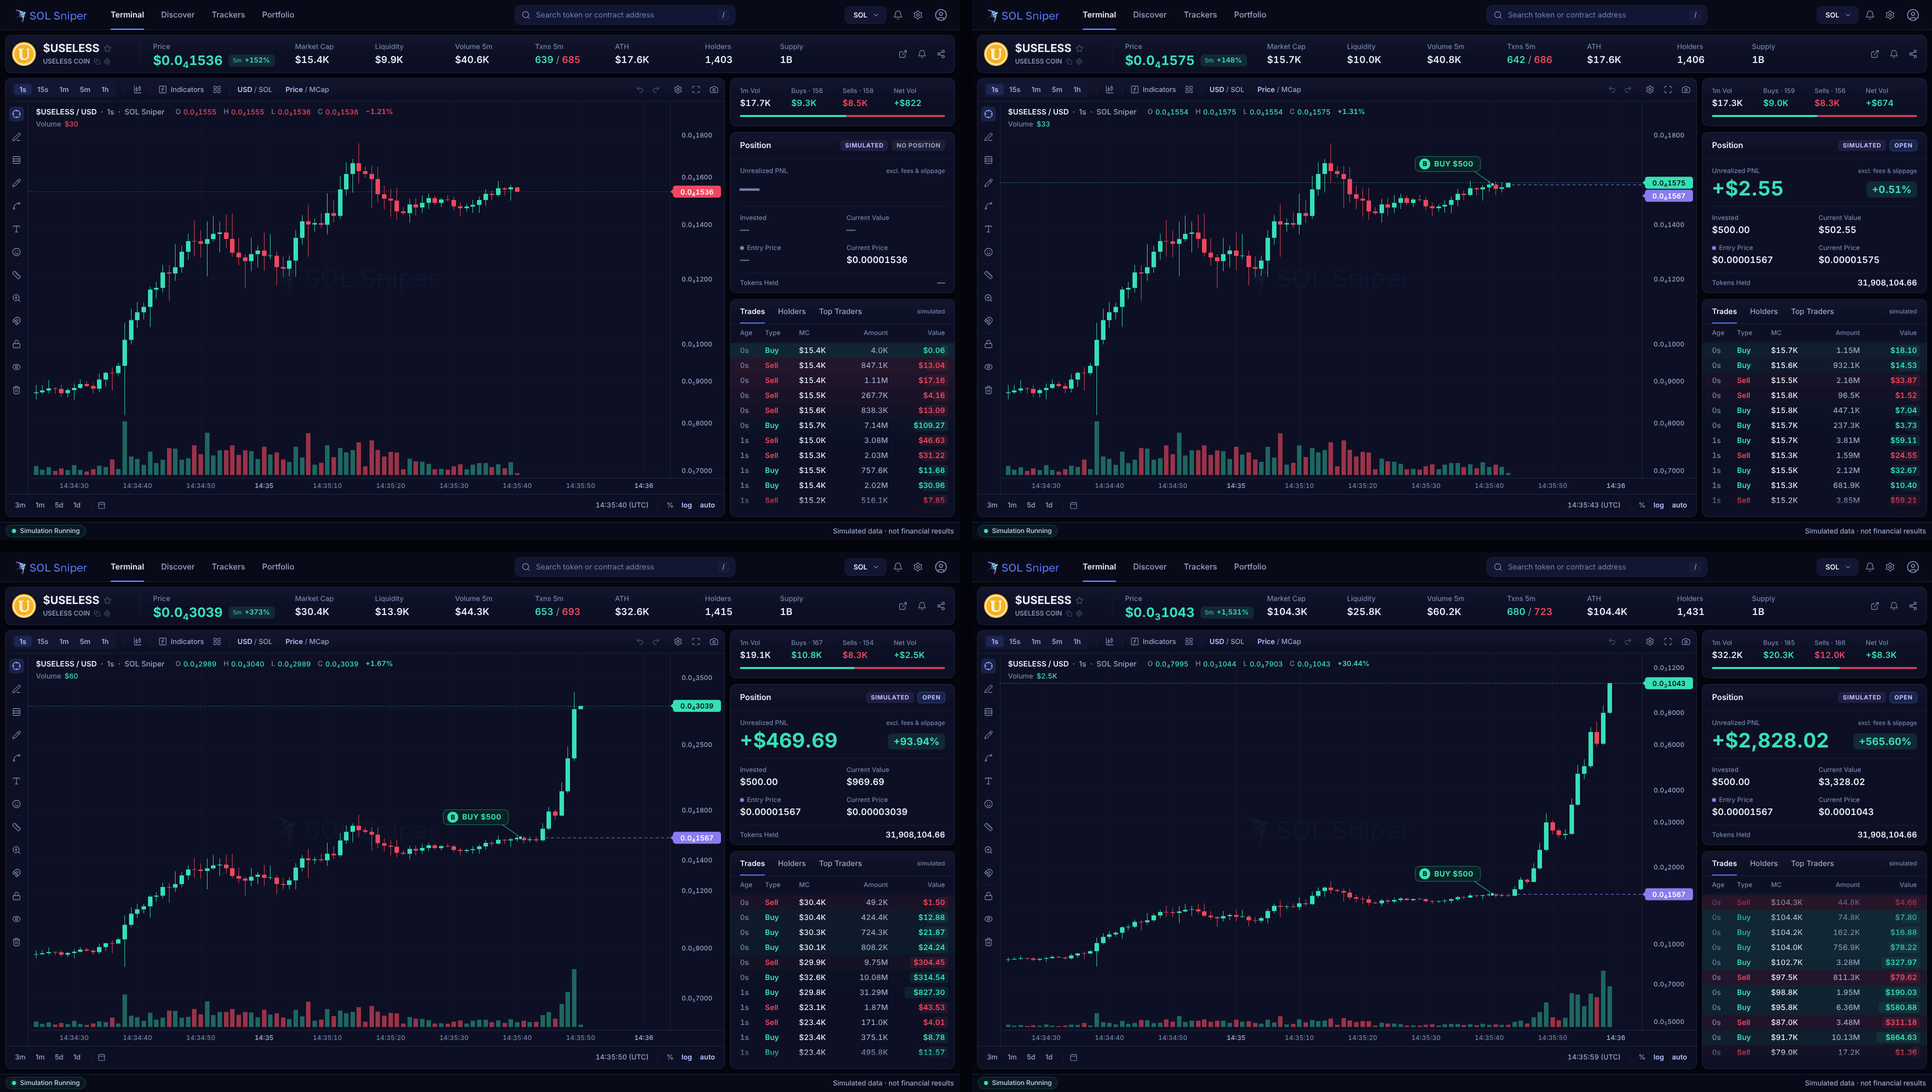
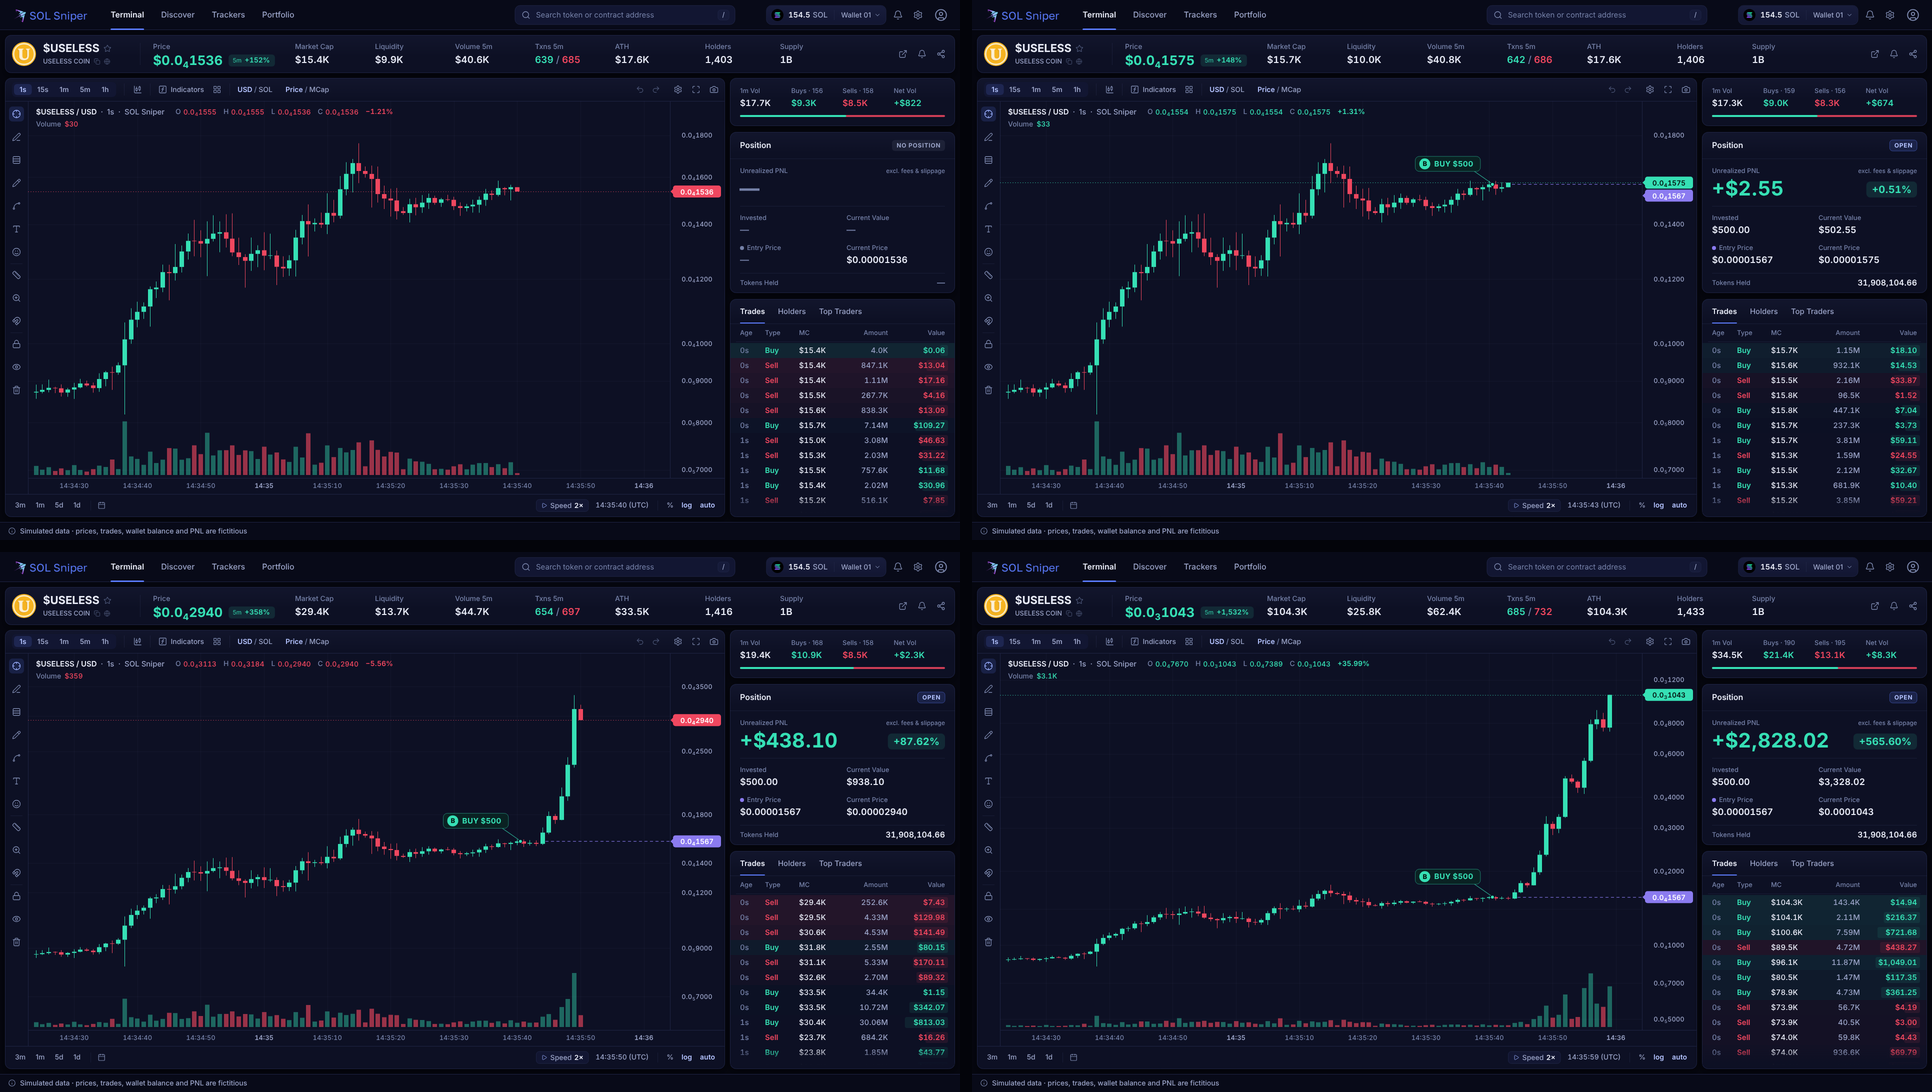
Pro mockup: end on the reviewed final values, smoother scale, varied run
- the last trade (t = 9.9 s) is $0.0001043, so the last frame shows the
  price, PNL (+$2,828.02) and ROI (+565.60%) of the capture the client
  reviewed; it stays on screen for the last 6 frames
- final run: impulses of different sizes and shapes at an irregular rhythm,
  single and two-candle pullbacks, indecision and rejection candles
- price and volume scales look 0.4 s ahead and ease, so the chart no longer
  jumps up to 38 px in one frame (now at most 6.6 px)
- speed chip reads 'Speed 2x' (not 'Replay', which suggests recorded data)
- restore the approved tape fade-in; update the tracked captures

Claude-Session: https://claude.ai/code/session_01DX4UdPmxe4ofh249epe6BY

diff --git a/sol-sniper-chart/src/pro/market.js b/sol-sniper-chart/src/pro/market.js
@@ -13,14 +13,14 @@
 import { DURATION, SAMPLE_HZ, gauss, makePath, mulberry32 } from '../engine.js';
 
 export const CANDLE_S = 0.5; // video seconds per 1 s candle (2x speed)
-export const REPLAY_SPEED = 1 / CANDLE_S; // chart seconds per video second (shown as "Replay 2x")
+export const PLAYBACK_SPEED = 1 / CANDLE_S; // chart seconds per video second (shown as "Speed 2x")
 export const HIST = 300; // 1 s candles before t = 0 (5 min, feeds the 5m stats)
 export const VIS_HIST = 76; // of which drawn on the chart
 export const LIVE = Math.round(DURATION / CANDLE_S); // 20 candles form during the video
 export const SLOTS = 100; // fixed x slots: 76 history + 20 live + right margin
 export const SUPPLY = 1e9; // USELESS total supply
 const ENTRY_PRICE = 0.00001567; // last trade when the simulated position opens (t = 0.5 s)
-const FINAL_PRICE = 0.0001025; // last trade of the video (closes the last candle at t = 9.98 s)
+const FINAL_PRICE = 0.0001043; // last trade of the video (closes the last candle at t = 9.9 s)
 const RISE_FROM = 8; // first candle of the final run (t = 4 s)
 const POOL_USD_AT_ENTRY = 5000; // USD side of the pool at the entry price
 export const CLOCK0 = 14 * 3600 + 30 * 60 + 40; // chart clock of history candle 0 (14:30:40)
@@ -36,9 +36,10 @@ const HIST_SEGMENTS = [
   { n: 18, ret: 0.07, vol: 0.012, wick: 1.0, rate: 1.6 }, // base, higher lows
 ];
 
-// Live candles: ret = close/open - 1, uw/lw = wick extensions, rate = trades
-// per video second. Dojis, two-candle pullbacks and rejection wicks keep the
-// pump from looking mechanical.
+// Live candles: ret = scripted close/open - 1 (up-moves of the final run are
+// rescaled, see below), uw/lw = wick extensions, rate = trades per video
+// second. Pullbacks, indecision candles and rejection wicks keep the pump
+// from looking mechanical.
 const LIVE_SCRIPT = [
   // 0 - 2 s: calm; the position opens on the close of the first candle
   { ret: +0.008, uw: 0.012, lw: 0.014, rate: 6 },
@@ -50,21 +51,22 @@ const LIVE_SCRIPT = [
   { ret: +0.09, uw: 0.025, lw: 0.008, rate: 8 },
   { ret: -0.02, uw: 0.01, lw: 0.02, rate: 7 },
   { ret: +0.13, uw: 0.05, lw: 0.006, rate: 9 },
-  // 4 - 10 s: final run. Impulses of different sizes, short pullbacks, one
-  // indecision candle and one rejection; wicks vary (dips bought, profit
-  // taking). Up-moves are rescaled below so the run ends on FINAL_PRICE.
-  { ret: +0.17, uw: 0.05, lw: 0.012, rate: 10 }, // breakout, upper wick
-  { ret: +0.31, uw: 0.03, lw: 0.02, rate: 12 }, // impulse
-  { ret: -0.06, uw: 0.015, lw: 0.07, rate: 12 }, // pullback, dip bought (long lower wick)
-  { ret: +0.13, uw: 0.085, lw: 0.01, rate: 11 }, // up, profit taking (long upper wick)
-  { ret: -0.035, uw: 0.03, lw: 0.025, rate: 9 }, // small pause
-  { ret: +0.36, uw: 0.035, lw: 0.02, rate: 13 }, // impulse
-  { ret: +0.21, uw: 0.1, lw: 0.015, rate: 14 }, // up, long upper wick
-  { ret: -0.09, uw: 0.02, lw: 0.055, rate: 13 }, // correction
-  { ret: +0.05, uw: 0.07, lw: 0.05, rate: 11 }, // spinning top
-  { ret: +0.38, uw: 0.03, lw: 0.02, rate: 14 }, // impulse
-  { ret: -0.07, uw: 0.12, lw: 0.035, rate: 14 }, // rejection (long upper wick)
-  { ret: +0.33, uw: 0.04, lw: 0.03, rate: 14 }, // final push, closes at t = 9.98 s
+  // 4 - 10 s: final run. Impulses of different sizes and shapes at an
+  // irregular rhythm, single and two-candle pullbacks, an indecision candle
+  // and a rejection; wicks vary (dips bought, profit taking). Up-moves are
+  // rescaled below so the run ends on FINAL_PRICE.
+  { ret: +0.15, uw: 0.04, lw: 0.02, rate: 11 }, // breakout
+  { ret: +0.28, uw: 0.075, lw: 0.015, rate: 15 }, // impulse, profit taking at the top
+  { ret: -0.045, uw: 0.02, lw: 0.065, rate: 12 }, // pullback, dip bought
+  { ret: +0.1, uw: 0.03, lw: 0.045, rate: 11 }, // recovery
+  { ret: +0.36, uw: 0.025, lw: 0.02, rate: 16 }, // impulse
+  { ret: -0.03, uw: 0.04, lw: 0.02, rate: 10 }, // pause
+  { ret: -0.055, uw: 0.015, lw: 0.05, rate: 12 }, // second red candle
+  { ret: +0.24, uw: 0.03, lw: 0.06, rate: 14 }, // bounce from a dip
+  { ret: +0.34, uw: 0.05, lw: 0.015, rate: 16 }, // impulse
+  { ret: +0.04, uw: 0.09, lw: 0.04, rate: 12 }, // indecision, long upper wick
+  { ret: -0.075, uw: 0.06, lw: 0.045, rate: 13 }, // rejection
+  { ret: +0.3, uw: 0.02, lw: 0.035, rate: 22 }, // final push, closes at t = 9.9 s
 ];
 
 const fmtClock = (sec) => {
@@ -180,8 +182,9 @@ export function buildProMarket({ seed = 7, histSeed = 3, tradeSeed = 11 } = {}) 
     }
     const n = Math.max(1, Math.round(s.rate * CANDLE_S * (0.8 + 0.4 * trng())));
     // extremes before the close, so the close is the candle's last trade; the
-    // last candle closes at 0.955 (t = 9.98 s), before the video's last frame
-    const cf = lastCandle ? 0.955 : 0.98;
+    // last candle closes at 0.8 (t = 9.9 s), so the final price holds on screen
+    // for the video's last 6 frames
+    const cf = lastCandle ? 0.8 : 0.98;
     const fr = tradeFractions(trng, n, [Math.min(cf - 0.02, iMax / N), Math.min(cf - 0.02, iMin / N), cf], cf);
     const t0 = j * CANDLE_S;
     const churn = Math.min(0.55, Math.abs(s.ret) * 2.2); // profit-taking grows with the move
@@ -228,38 +231,49 @@ export function buildProMarket({ seed = 7, histSeed = 3, tradeSeed = 11 } = {}) 
     return out;
   }
 
-  // ---- log-scale auto range over the visible candles, eased, precomputed
+  // ---- log-scale auto range over the visible candles, precomputed. The
+  // targets look LOOK_S ahead and are eased, so the scale opens up smoothly
+  // before a spike instead of jumping when it prints (no zoom-like jolt).
   const steps = Math.ceil(DURATION * SAMPLE_HZ) + 1;
+  const dt = 1 / SAMPLE_HZ;
+  const LOOK = Math.round(0.4 * SAMPLE_HZ);
+  const lh = new Float64Array(steps);
+  const ll = new Float64Array(steps);
+  const vm = new Float64Array(steps);
+  for (let j = 0; j < steps; j++) {
+    let hi = -Infinity;
+    let lo = Infinity;
+    for (const x of candlesAt(j * dt)) {
+      hi = Math.max(hi, x.h);
+      lo = Math.min(lo, x.l);
+      vm[j] = Math.max(vm[j], x.usd);
+    }
+    lh[j] = Math.log(hi);
+    ll[j] = Math.log(lo);
+  }
+  const ahead = (arr, j, f) => {
+    let v = -Infinity;
+    for (let k = j; k <= Math.min(steps - 1, j + LOOK); k++) v = Math.max(v, f(arr[k], k));
+    return v;
+  };
   const yTop = new Float64Array(steps);
   const yBot = new Float64Array(steps);
   const vTop = new Float64Array(steps);
-  const dt = 1 / SAMPLE_HZ;
   let sTop = 0;
   let sVol = 0;
   for (let j = 0; j < steps; j++) {
-    const cs = candlesAt(j * dt);
-    let hi = -Infinity;
-    let lo = Infinity;
-    let vmax = 0;
-    for (const x of cs) {
-      hi = Math.max(hi, x.h);
-      lo = Math.min(lo, x.l);
-      vmax = Math.max(vmax, x.usd);
-    }
-    const lh = Math.log(hi);
-    const ll = Math.log(lo);
-    const range = lh - ll;
-    const target = lh + 0.06 * range;
+    const target = ahead(lh, j, (h, k) => h + 0.06 * (h - ll[k]));
+    const vTarget = ahead(vm, j, (v) => v * 1.1);
     if (j === 0) {
       sTop = target;
-      sVol = vmax * 1.1;
+      sVol = vTarget;
     } else {
-      sTop += (target - sTop) * (1 - Math.exp(-dt / 0.18));
-      sVol += (vmax * 1.1 - sVol) * (1 - Math.exp(-dt / 0.25));
+      sTop += (target - sTop) * (1 - Math.exp(-dt / 0.15));
+      sVol += (vTarget - sVol) * (1 - Math.exp(-dt / 0.2));
     }
-    yTop[j] = Math.max(sTop, lh + 0.01 * range);
-    yBot[j] = ll - 0.04 * range;
-    vTop[j] = Math.max(sVol, vmax * 1.02);
+    yTop[j] = Math.max(sTop, lh[j] + 0.01 * (lh[j] - ll[j]));
+    yBot[j] = ll[j] - 0.04 * (yTop[j] - ll[j]);
+    vTop[j] = Math.max(sVol, vm[j] * 1.02);
   }
 
   const P0 = candles[HIST - VIS_HIST].o;

diff --git a/sol-sniper-chart/src/pro/render.js b/sol-sniper-chart/src/pro/render.js
@@ -3,7 +3,7 @@
 
 import { centsToString, formatPctBp, formatUsdCents, priceDecimals } from '../format.js';
 import { roundRect } from '../ui.js';
-import { REPLAY_SPEED, SLOTS } from './market.js';
+import { PLAYBACK_SPEED, SLOTS } from './market.js';
 
 const UI = 'Inter, system-ui, sans-serif';
 const NUM = '"Inter Tnum", Inter, system-ui, sans-serif';
@@ -69,6 +69,7 @@ function compactNum(v) {
   return v.toFixed(0);
 }
 const group = (n) => n.toLocaleString('en-US');
+const easeOut = (k) => 1 - Math.pow(1 - Math.min(1, Math.max(0, k)), 3);
 const usd2 = (v) => `$${v.toLocaleString('en-US', { minimumFractionDigits: 2, maximumFractionDigits: 2 })}`;
 
 function text(ctx, s, x, y, { font = `500 15px ${UI}`, color = C.text, align = 'left', base = 'middle', spacing = '0px' } = {}) {
@@ -580,13 +581,13 @@ function drawChart(ctx, s, position, pos, icons) {
   vline(ctx, rr, ry - 10, ry + 10);
   rr -= 18;
   rr -= text(ctx, `${s.clock} (UTC)`, rr, ry, { font: `500 14px ${NUM}`, color: C.text2, align: 'right' }) + 14;
-  // 1 s candles are replayed at 2x: 2 chart seconds per video second
-  const speed = `${REPLAY_SPEED}×`;
-  const rw = 10 + 12 + 6 + measure(ctx, 'Replay', `500 14px ${UI}`) + 5 + measure(ctx, speed, `600 14px ${NUM}`) + 10;
+  // 1 s candles play at 2x: 2 chart seconds per video second
+  const speed = `${PLAYBACK_SPEED}×`;
+  const rw = 10 + 12 + 6 + measure(ctx, 'Speed', `500 14px ${UI}`) + 5 + measure(ctx, speed, `600 14px ${NUM}`) + 10;
   pill(ctx, rr - rw, ry - 12, rw, 24, { fill: C.field, stroke: C.border, r: 6 });
   icon(ctx, icons, 'play', rr - rw + 10 + 6, ry, 12, 'active');
   let px = rr - rw + 10 + 12 + 6;
-  px += text(ctx, 'Replay', px, ry + 0.5, { font: `500 14px ${UI}`, color: C.text2 }) + 5;
+  px += text(ctx, 'Speed', px, ry + 0.5, { font: `500 14px ${UI}`, color: C.text2 }) + 5;
   text(ctx, speed, px, ry + 0.5, { font: `600 14px ${NUM}`, color: C.text });
 }
 
@@ -660,10 +661,11 @@ function drawPosition(ctx, position, pos) {
   text(ctx, pos.open ? centsToString(position.tokensHundredths) : dash, R, r.y + 302, { font: `600 16px ${NUM}`, color: pos.open ? C.text : C.text3, align: 'right' });
 }
 
-// Trades tape, newest first. Like a live terminal, a new trade is inserted at
-// the top at once (the top row is always the last trade) and its row flashes
-// briefly.
+// Trades tape, newest first. Like a live terminal, a new trade is inserted
+// at the top at once (the top row is always the last trade), fades in over
+// 120 ms and its row flashes briefly.
 const ROW_H = 30;
+const FADE_S = 0.12;
 const FLASH_S = 0.5;
 function drawTrades(ctx, s, t) {
   const r = TRADES;
@@ -702,6 +704,7 @@ function drawTrades(ctx, s, t) {
       ctx.fillStyle = buy ? `rgba(54, 224, 181, ${(0.12 * (1 - fk)).toFixed(3)})` : `rgba(240, 71, 95, ${(0.12 * (1 - fk)).toFixed(3)})`;
       ctx.fillRect(r.x + 1, y - ROW_H / 2, r.w - 2, ROW_H);
     }
+    ctx.globalAlpha = 0.35 + 0.65 * easeOut((t - tr.tv) / FADE_S);
     const bw = Math.min(100, Math.max(16, 16 + (Math.log10(Math.max(1, tr.usd)) / Math.log10(3000)) * 84));
     pill(ctx, R + 6 - bw, y - 11, bw, 22, { fill: buy ? 'rgba(54, 224, 181, 0.09)' : 'rgba(240, 71, 95, 0.10)', r: 4 });
     text(ctx, `${tr.age}s`, cols.age, y, { font: `500 15px ${NUM}`, color: C.text3 });
@@ -709,6 +712,7 @@ function drawTrades(ctx, s, t) {
     text(ctx, compactUsd(tr.price * 1e9), cols.mc, y, { font: `500 15px ${NUM}`, color: C.text });
     text(ctx, compactNum(tr.tokens), cols.amount, y, { font: `500 15px ${NUM}`, color: C.text2, align: 'right' });
     text(ctx, usd2(tr.usd), cols.value, y, { font: `600 15px ${NUM}`, color: c, align: 'right' });
+    ctx.globalAlpha = 1;
   });
   // older rows fade out at the bottom edge of the list
   const fb = r.y + r.h - 8;
